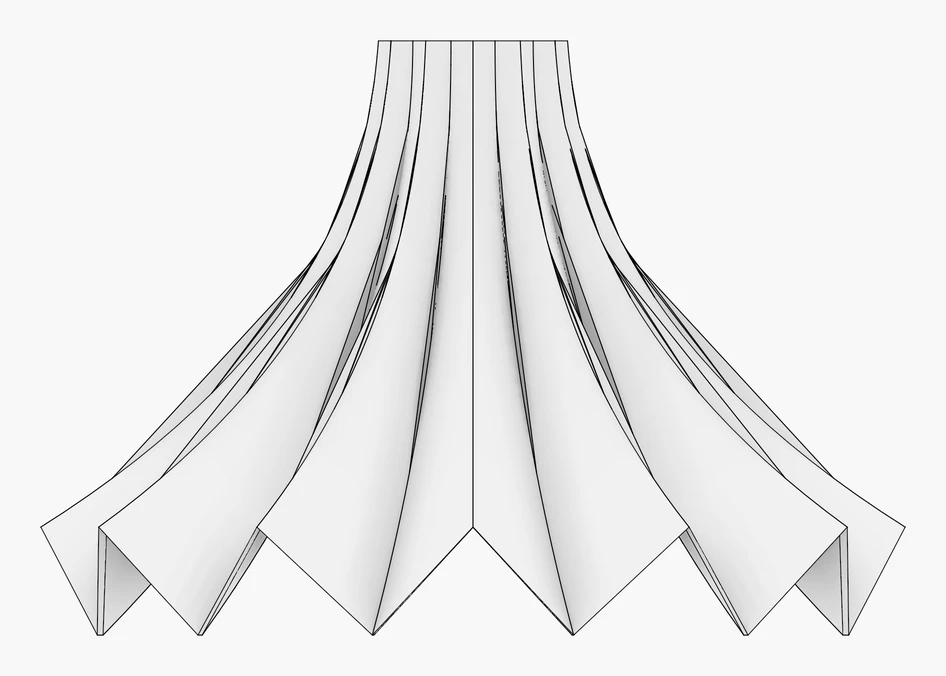
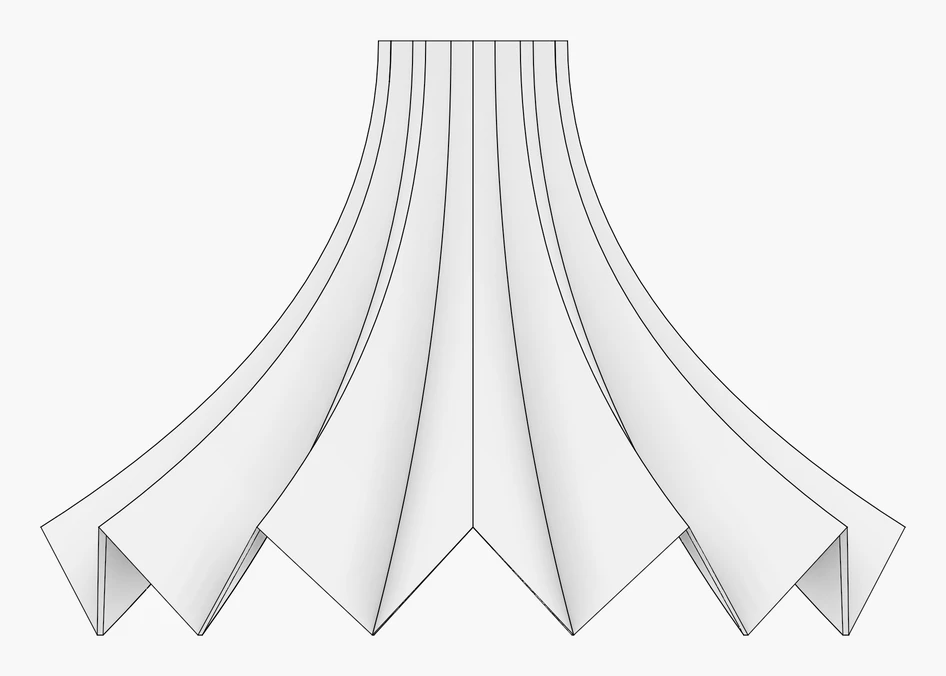
wood: curved fold's ridges fading smoothly to a level top instead of a kinked top ring, so the lamellas no longer overlap

Changed region(s): [[0.1226, 0.0621, 0.4905, 0.7145], [0.5211, 0.0621, 0.8584, 0.6834], [0.8584, 0.6834, 0.889, 0.7145]]

diff --git a/src/templates/folding/curved_fold.h b/src/templates/folding/curved_fold.h
@@ -49,8 +49,8 @@ public:
 
 private:
     /// Per ring from the eaves up its star of 2 sectors points, a ridge and a valley in turn: the trumpet curve's radius, flat at the
-    /// eaves and vertical at the tower, its height, the fold's depth and the valleys' inset scaled with the radius; the top ring cut flat
-    /// by the plane at the tower's height, so the lamellas end level.
+    /// eaves and vertical at the tower, its height, the fold's depth and the valleys' inset scaled with the radius; the ridges' rise over
+    /// the valleys fading smoothly to nothing at the top, so the top ring lies in the plane at the tower's height and the lamellas end level.
     std::vector<std::vector<Point>> compute_rings() const;
 
     /// The same points on the lamellas' inner faces: at every point the line where the two strips beside it, offset inwards by the
@@ -129,7 +129,7 @@ inline std::vector<std::vector<Point>> CurvedFold::compute_rings() const {
             const double angle = 2.0 * Tolerance::PI * static_cast<double>(j) / static_cast<double>(count);
             const bool ridge = j % 2 == 0;
             const double r = ridge ? ring_radius : ring_radius * (1.0 - inset);
-            const double z = k + 1 == rings ? height : ring_height + (ridge ? gable * fade : 0.0);
+            const double z = ring_height + (ridge ? gable * fade * (1.0 - t * t * t) : 0.0);
             star.push_back(Point(r * std::cos(angle), r * std::sin(angle), z));
         }
 
